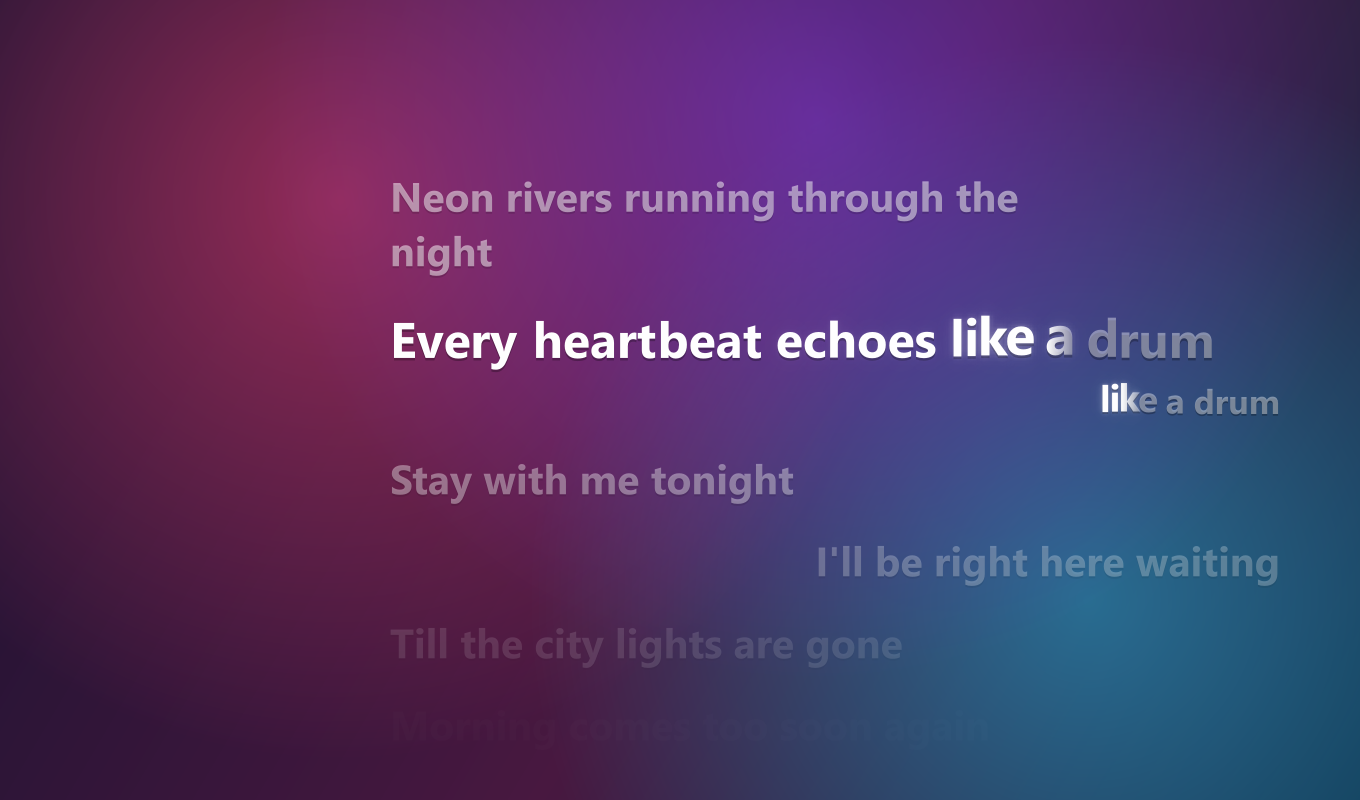
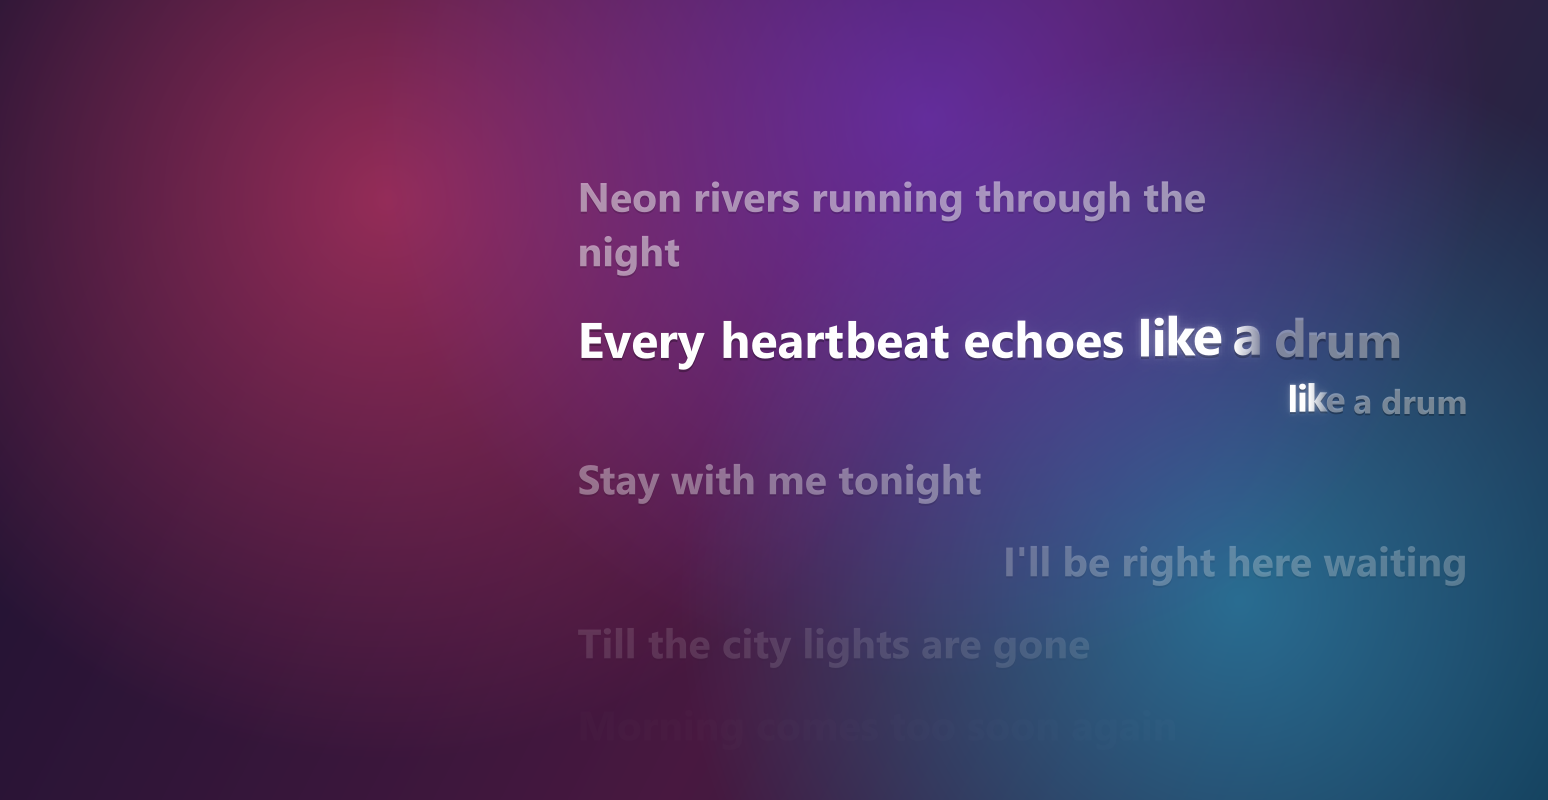
Lyric-shaped backdrop, single height change on line handover
- Backdrop is now a soft blurred haze shaped around the visible lyrics
  instead of a fixed half-ellipse, with room to fade out on the inner side
- The previous line shrinks as soon as the next starts, so line heights
  change once instead of twice
- Bump to 1.2.0

diff --git a/lyrics_overlay.py b/lyrics_overlay.py
@@ -56,8 +56,10 @@ SETTINGS = Path.home() / "AppData" / "Roaming" / "LyricsOverlay" / "settings.jso
 DEFAULTS = {"scale": 1.0, "side": "right", "offset": 0.0, "backdrop": False,
             "backdrop_opacity": 0.45}  # darkness where the haze meets the screen edge, 0-1
 EDGE = 40                 # window sits flush to the screen edge; this keeps text off the edge
+INNER = 150               # extra room on the inner side so the backdrop can fade out before the window ends
+HAZE_RES = 8              # backdrop is drawn at 1/8 resolution and blurred (cheap, and smooth anyway)
 
-__version__ = "1.1.0"
+__version__ = "1.2.0"
 REPO = "HayzDev/lyrics-overlay"
 UA = {"User-Agent": f"lyrics-overlay/{__version__}"}
 log = logging.getLogger("lyrics-overlay")
@@ -297,24 +299,6 @@ def blur(img, radius):
     return out
 
 
-def make_backdrop(side, opacity):
-    """Dark haze centered on the screen edge, so it seems to come in from the side and fades out
-    smoothly past the far end of the lyrics: a dull area, not a box."""
-    w = WIDTH + EDGE
-    img = QImage(w, HEIGHT, QImage.Format_ARGB32_Premultiplied)
-    img.fill(Qt.transparent)
-    qp = QPainter(img)
-    qp.setRenderHint(QPainter.Antialiasing)
-    qp.translate(0 if side == "left" else w, HEIGHT / 2)
-    qp.scale(w, HEIGHT / 2)  # unit circle -> half-ellipse that fades to zero exactly at the window's far side
-    g = QRadialGradient(QPointF(0, 0), 1.0)
-    for stop, k in ((0.0, 1.0), (0.6, 0.92), (0.82, 0.62), (0.95, 0.22), (1.0, 0.0)):
-        g.setColorAt(stop, QColor(0, 0, 0, int(255 * opacity * k)))
-    qp.fillRect(QRectF(-1, -1, 2, 2), g)
-    qp.end()
-    return img
-
-
 def clamp01(v):
     return min(1.0, max(0.0, v))
 
@@ -341,12 +325,11 @@ class Overlay(QWidget):
         self.timer = QTimer(self)
         self.timer.timeout.connect(self.update)
         self.timer.start(16)
-        self.backdrop = None
         self.reveal = 0.0  # 0 = song title showing, 1 = lyrics showing; eased between
 
     def place(self):
         s = self.cfg["scale"]
-        w, h = int((WIDTH + EDGE) * s), int(HEIGHT * s)
+        w, h = int((WIDTH + EDGE + INNER) * s), int(HEIGHT * s)
         g = QApplication.primaryScreen().availableGeometry()
         self.resize(w, h)
         self.move(g.x() if self.cfg["side"] == "left" else g.x() + g.width() - w, g.center().y() - h // 2)
@@ -367,7 +350,7 @@ class Overlay(QWidget):
         maxw = WIDTH - 2 * PAD
         for ln in lines:
             if not ln.words:  # interlude dots
-                self.layout.append([ln, [], DOT_H, 0.0, 0.0])
+                self.layout.append([ln, [], DOT_H, 0.0, 0.0, (-10.0, 90.0)])
                 continue
             items, rows, x = [], [0.0], 0.0
             for word in ln.words:
@@ -393,7 +376,8 @@ class Overlay(QWidget):
                 if ln.right:
                     it[2] += maxw - rows[it[3]]
                 it[3] = it[3] * lh + asc
-            self.layout.append([ln, items, len(rows) * lh, INACTIVE_SCALE, 0.0])  # + anim scale/alpha
+            ext = (min(it[2] for it in items), max(it[2] + it[4] for it in items))  # x extent, for the backdrop
+            self.layout.append([ln, items, len(rows) * lh, INACTIVE_SCALE, 0.0, ext])  # + anim scale/alpha
 
     def paintEvent(self, _):
         now = time.monotonic()
@@ -406,15 +390,15 @@ class Overlay(QWidget):
         lines = self.p.lines
         if lines is not self.lines:
             self.relayout(lines)
-        if self.cfg["backdrop"] and (lines or self.p.status):
-            key = (self.cfg["side"], self.cfg["backdrop_opacity"])
-            if self.backdrop is None or self.backdrop[0] != key:
-                self.backdrop = (key, make_backdrop(*key))
-            qp.drawImage(0, 0, self.backdrop[1])
-        if self.cfg["side"] == "left":
-            qp.translate(EDGE, 0)
+        qp.translate(EDGE if self.cfg["side"] == "left" else INNER, 0)
         self.reveal += ((1.0 if lines else 0.0) - self.reveal) * (1 - math.exp(-dt * 3.5))
         shown = smooth(clamp01(self.reveal))
+        haze = []  # (x0, y0, x1, y1, strength) behind whatever text is visible
+        if self.p.status and shown < 0.99:
+            haze.append((PAD, HEIGHT * ANCHOR - 26, PAD + 20 + 9 * len(self.p.status), HEIGHT * ANCHOR + 8,
+                         1 - shown))
+        if not lines:
+            self.draw_haze(qp, haze)
         if self.p.status and shown < 0.99:  # title fades out (drifting up) as the lyrics fade in
             f = QFont(FONT)
             f.setPixelSize(20)
@@ -442,7 +426,10 @@ class Overlay(QWidget):
                 # several lines can be live at once (overlaps, ad-libs); the anchor stays lit until the next
                 on = ln.start <= pos and (pos < ln.end + 0.5 or i == anchor)
                 d = abs(i - max(anchor, 0))
-                st[3] += ((1.0 if on else INACTIVE_SCALE) - st[3]) * k
+                # only the newest line is full size: the previous one shrinks the moment the next starts
+                # (it can still finish its highlight), so heights change once, together
+                big = i == anchor or (ln.bg and on)
+                st[3] += ((1.0 if big else INACTIVE_SCALE) - st[3]) * k
                 target = 1.0 if on else max(0.1, min(0.5, 0.62 - 0.12 * d))
                 if i < li and self.pinned:  # lyrics from before a long gap stay hidden
                     target = 0.0
@@ -467,7 +454,8 @@ class Overlay(QWidget):
         self.scroll += (target - self.scroll) * k
 
         maxw = WIDTH - 2 * PAD
-        for i, (ln, items, h, s, a) in enumerate(self.layout):
+        visible = []
+        for i, (ln, items, h, s, a, (x0, x1)) in enumerate(self.layout):
             s *= BG_SCALE if ln.bg else 1
             top = HEIGHT * ANCHOR + ys[i] - self.scroll
             if top > HEIGHT or top + h * s < 0:
@@ -475,6 +463,15 @@ class Overlay(QWidget):
             top += 16 * (1 - shown)  # lyrics rise into place as they fade in
             # fade by the line's own top/bottom (+ room for lift and glow), so nothing is ever clipped
             alpha = a * shown * smooth(clamp01(min(top - 12, HEIGHT - (top + h * s) - 12) / EDGE_FADE))
+            if ln.words:
+                alpha *= 1 - veil
+                top += 14 * veil  # hidden lyrics sit slightly low, so they rise as they fade back in
+            sx = (lambda x: PAD + maxw + (x - maxw) * s) if ln.right else (lambda x: PAD + x * s)
+            haze.append((sx(x0), top, sx(x1), top + h * s, alpha ** 0.6))
+            visible.append((i, ln, items, h, s, top, alpha))
+        self.draw_haze(qp, haze)
+
+        for i, ln, items, h, s, top, alpha in visible:
             qp.save()
             if not ln.words:
                 qp.translate(PAD, top + h * s / 2)
@@ -482,8 +479,6 @@ class Overlay(QWidget):
                 self.draw_dots(qp, ln, pos, alpha)
                 qp.restore()
                 continue
-            alpha *= 1 - veil
-            top += 14 * veil  # hidden lyrics sit slightly low, so they rise as they fade back in
             if ln.right:  # scale toward the right edge
                 qp.translate(PAD + maxw, top)
                 qp.scale(s, s)
@@ -494,6 +489,30 @@ class Overlay(QWidget):
             for it in items:
                 self.draw_word(qp, it, pos, alpha, ons[i])
             qp.restore()
+
+    def draw_haze(self, qp, rects):
+        """Optional dark backdrop shaped like the visible lyrics: a soft rounded patch behind each line,
+        weighted by how visible the line is, blurred together so it reads as a dull haze, not boxes."""
+        if not (self.cfg["backdrop"] and rects):
+            return
+        x_off = EDGE if self.cfg["side"] == "left" else INNER  # haze image covers the whole window
+        full_w = WIDTH + EDGE + INNER
+        img = QImage(full_w // HAZE_RES, HEIGHT // HAZE_RES, QImage.Format_ARGB32_Premultiplied)
+        img.fill(Qt.transparent)
+        m = QPainter(img)
+        m.setRenderHint(QPainter.Antialiasing)
+        m.setPen(Qt.NoPen)
+        m.scale(1 / HAZE_RES, 1 / HAZE_RES)
+        m.translate(x_off, 0)
+        for x0, y0, x1, y1, strength in rects:
+            m.setBrush(QColor(0, 0, 0, int(255 * min(1.0, self.cfg["backdrop_opacity"] * 1.4) * clamp01(strength))))
+            m.drawRoundedRect(QRectF(x0 - 50, y0 - 24, x1 - x0 + 100, y1 - y0 + 48), 48, 48)  # overlap -> merge
+        m.end()
+        qp.save()
+        qp.translate(-x_off, 0)
+        qp.setRenderHint(QPainter.SmoothPixmapTransform)
+        qp.drawImage(QRectF(0, 0, full_w, HEIGHT), blur(blur(img, 9), 9))  # twice: no visible edges
+        qp.restore()
 
     def draw_dots(self, qp, ln, pos, alpha):
         q = clamp01((pos - ln.start) / max(ln.end - ln.start, 0.01))

diff --git a/README.md b/README.md
@@ -32,7 +32,7 @@ Click-through, always on top, and styled after Spicy Lyrics: letters swell in a 
 </tr>
 <tr>
 <td><b>Instrumental breaks.</b> Three dots fill across the gap. On long breaks the lyrics step aside, then the next lines fade in from the top just before the vocals come back.</td>
-<td><b>Readable on bright scenes.</b> An optional dark haze that seems to drift in from the screen edge (no boxes), with adjustable darkness.</td>
+<td><b>Readable on bright scenes.</b> An optional dark haze shaped around the visible lyrics (soft, no boxes), with adjustable darkness.</td>
 </tr>
 </table>
 
